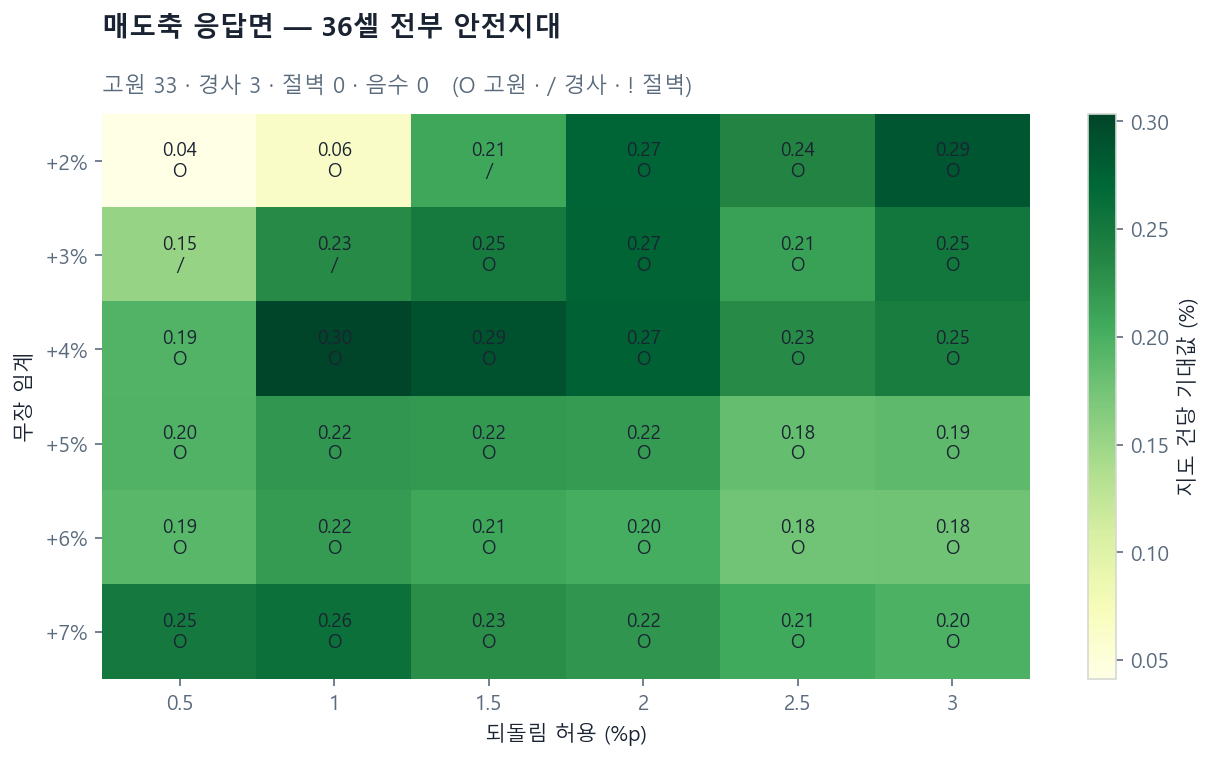
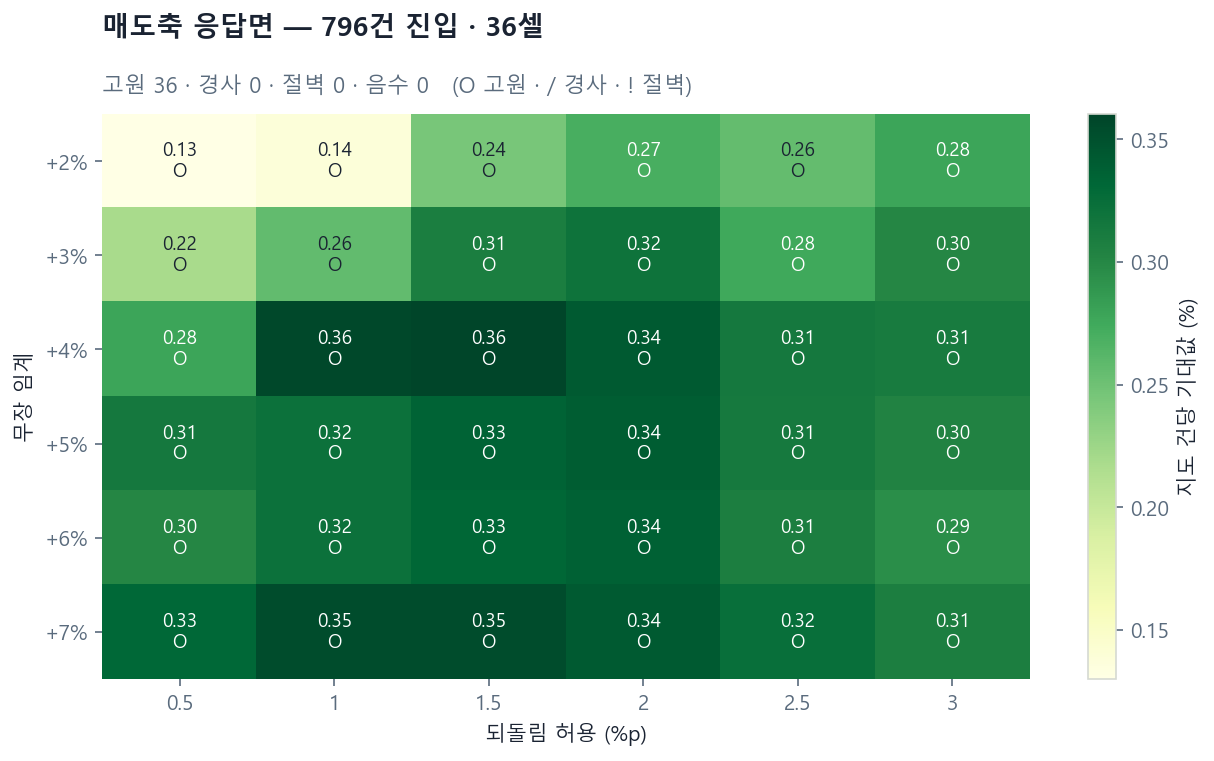
feat(S3 완료): 라벨 백필 477일 + 832일 지도 재산출 + 정본 세트 교정
백필 477/477 완료(실패 0 · 1시간 52분). design_v5 가 설계 구간 전체 832 거래일을
wide 36셀 격자로 덮는다. 지도 표본이 2.3배(진입 344 → 797건).

발견한 결함 2건:
1. 페이지 29 가 옛 세트(design_v4)를 보고 있어 백필을 끝내도 "결손 597일"이라고
   계속 말했다 → 정본을 design_v5 로 옮김. 결손 597 → 120(설계 1 + 홀드아웃 119)
2. 페이지 32 가 태그(_wide)를 고정하고 있어 넓어진 산출을 못 봤다
   → 태그 미지정 시 가장 최근 산출을 쓰도록 변경. 차트 생성기도 동일 규칙

832일 재산출 결과:
- 응답면: 경사 3셀이 전부 고원이 됐다(36/36). 경사는 표본 잡음이었다.
  고원 최고 이웃 유지율 64% → 86%. 지도 최고 셀도 4/1 → 4/1.5 로 이동
  (지도 순위는 표본에 따라 흔들린다 — 헌법 9항의 또 하나의 근거)
- 진입 절: 판정 대거 역전. 완화 후보 구성이 바뀌고 무효 9 → 6.
  새 최대 빈도 후보 902_회전율 (진입 1.49배 · 지도 건당 +0.0359%p)
- ★ 표본을 2.3배 늘려도 지도는 엔진과 정렬되지 않았다(3중 1만 개선).
  진입축 불일치는 표본 문제가 아니라 축 문제다 — 청산을 맞춰야 한다

테스트 38종 GREEN · 사이드카 1,002 문서 재생성 · 히트맵 글자 대비 교정

Claude-Session: https://claude.ai/code/session_01EDMgK8ek7QGtVQmyV1ANH6

diff --git a/docs/research/quant_scoring_pipeline/build_w6_charts.py b/docs/research/quant_scoring_pipeline/build_w6_charts.py
@@ -157,10 +157,14 @@ def chart_forest(led) -> None:
 # ---------------------------------------------------------------------------
 
 def chart_surface() -> None:
-    path = LABELS / "design_v5" / "_exit_response_surface_wide.json"
-    if not path.exists():
+    # 태그를 고정하지 않는다 — 라벨이 넓어지면 새 태그로 산출된다(_wide → _wide832).
+    #   가장 최근 산출을 그린다.
+    found = sorted((LABELS / "design_v5").glob("_exit_response_surface*.json"),
+                   key=lambda q: q.stat().st_mtime)
+    if not found:
         print("  (응답면 산출 없음 — 건너뜀)")
         return
+    path = found[-1]
     rep = json.loads(path.read_text(encoding="utf-8"))
     arms, gives = rep["arms"], rep["gives"]
     grid = np.array([[np.nan if v is None else v for v in row] for row in rep["matrix"]])
@@ -175,8 +179,10 @@ def chart_surface() -> None:
                 continue
             mark = {"고원": "O", "경사": "/", "절벽": "!", "음수": "-"}.get(
                 verdict.get((a, g), ""), "")
+            # 진한 칸에 어두운 글자를 얹으면 안 읽힌다 — 명도에 따라 뒤집는다.
+            share = (v - np.nanmin(grid)) / max(np.nanmax(grid) - np.nanmin(grid), 1e-9)
             ax.text(j, i, f"{v:.2f}\n{mark}", ha="center", va="center",
-                    fontsize=9, color=INK)
+                    fontsize=9, color="white" if share > 0.55 else INK)
     ax.set_xticks(range(len(gives))); ax.set_xticklabels([f"{g:g}" for g in gives])
     ax.set_yticks(range(len(arms))); ax.set_yticklabels([f"+{a:g}%" for a in arms])
     ax.set_xlabel("되돌림 허용 (%p)"); ax.set_ylabel("무장 임계")
@@ -184,7 +190,8 @@ def chart_surface() -> None:
     for side in ("top", "right", "bottom", "left"):
         ax.spines[side].set_visible(False)
     counts = rep["verdict_counts"]
-    ax.text(0, 1.13, "매도축 응답면 — 36셀 전부 안전지대", transform=ax.transAxes,
+    ax.text(0, 1.13, f"매도축 응답면 — {rep['entry_positions']:,}건 진입 · {len(rep['cells'])}셀",
+            transform=ax.transAxes,
             fontsize=13, fontweight="bold", color=INK, va="bottom")
     ax.text(0, 1.03,
             f"고원 {counts.get('고원', 0)} · 경사 {counts.get('경사', 0)} · "

diff --git a/ai_strategy_loop/dashboard/response_surface_api.py b/ai_strategy_loop/dashboard/response_surface_api.py
@@ -36,17 +36,22 @@ VERDICT_LABEL: Final = {
 
 
 def _find(out_name: str, tag: str) -> str | None:
-    path = os.path.join(_LABEL_ROOT, out_name, f"_exit_response_surface{tag}.json")
-    if os.path.exists(path):
-        return path
-    # 태그를 모르고 들어온 경우 — 하나뿐이면 그것을 쓴다. 여럿이면 고르지 않는다.
-    found = sorted(glob.glob(os.path.join(
-        _LABEL_ROOT, out_name, "_exit_response_surface*.json")))
-    return found[0] if len(found) == 1 else None
+    """태그를 주면 그것을, 안 주면 **가장 최근 산출**을 쓴다.
+
+    태그를 고정하면 안 되는 이유: 라벨이 넓어질 때마다 새 태그로 산출한다
+    (`_wide` 355일 → `_wide832` 832일). 화면이 옛 태그를 붙들고 있으면
+    백필을 끝내도 옛 표본의 그림을 계속 보여준다 — 페이지 29 에서 실제로 겪었다.
+    """
+    if tag:
+        path = os.path.join(_LABEL_ROOT, out_name, f"_exit_response_surface{tag}.json")
+        return path if os.path.exists(path) else None
+    found = glob.glob(os.path.join(
+        _LABEL_ROOT, out_name, "_exit_response_surface*.json"))
+    return max(found, key=os.path.getmtime) if found else None
 
 
 @response_surface_router.get("/loop/response-surface")
-def response_surface(out_name: str = "design_v5", tag: str = "_wide") -> dict[str, Any]:
+def response_surface(out_name: str = "design_v5", tag: str = "") -> dict[str, Any]:
     path = _find(out_name, tag)
     if path is None:
         return {"available": False, "out_name": out_name, "tag": tag,

diff --git a/tests/unit/test_w5_standing.py b/tests/unit/test_w5_standing.py
@@ -159,3 +159,32 @@ def test_standing_status_skips_revalidation_without_today(dirs):
                                 db_dir=str(db), label_root=str(labels.parent))
     assert status["revalidation"] is None       # 시계를 몰래 읽지 않는다
     assert status["actions_are_planned_only"] is True
+
+
+# ---------------------------------------------------------------------------
+# 정본 라벨 세트 (2026-08-09 백필 이후)
+# ---------------------------------------------------------------------------
+
+def test_default_out_name_points_at_the_full_coverage_set():
+    """★ 화면이 옛 세트를 보면 백필을 끝내도 "결손 597일"이라고 계속 말한다.
+
+    실측으로 그 상태를 확인하고 정본을 옮겼다: `design_v4` 는 355일·6셀 격자,
+    `design_v5` 는 wide 36셀로 설계 구간 전체(832일)를 덮는다.
+    """
+    assert st.DEFAULT_OUT_NAME == "design_v5"
+
+
+def test_api_default_delegates_to_the_controller(monkeypatch):
+    """기본값을 API 쪽에 문자열로 박으면 두 곳이 어긋난다."""
+    from ai_strategy_loop.dashboard import autoloop_api as api
+
+    seen = {}
+
+    def _spy(out_name, lane, **kw):
+        seen["out_name"] = out_name
+        return {}
+
+    monkeypatch.setattr(api, "_standing_candidates", lambda: [])
+    monkeypatch.setattr(st, "standing_status", _spy)
+    api.standing()
+    assert seen["out_name"] == st.DEFAULT_OUT_NAME

diff --git a/ai_strategy_loop/dashboard/autoloop_api.py b/ai_strategy_loop/dashboard/autoloop_api.py
@@ -206,7 +206,7 @@ def autonomy_budget(run_id: RunId = "") -> dict[str, Any]:
 
 
 @autoloop_router.get("/loop/standing")
-def standing(out_name: str = "design_v4", lane: str = "tick",
+def standing(out_name: str = "", lane: str = "tick",
              today: int = 0, max_age_days: int = 0) -> dict[str, Any]:
     """상설화 현황 (W5) — 백필 계획 + 후보 재검증 계획.
 
@@ -220,7 +220,9 @@ def standing(out_name: str = "design_v4", lane: str = "tick",
         return {"available": False, "reason": "unknown_lane", "lane": lane}
 
     records = _standing_candidates()
-    payload = st.standing_status(out_name, lane, records=records, today=today)
+    # 기본값을 여기서 문자열로 박지 않는다 — 정본 라벨 세트는 controller 가 안다.
+    payload = st.standing_status(out_name or st.DEFAULT_OUT_NAME, lane,
+                                 records=records, today=today)
     if today and max_age_days:
         payload["revalidation"] = st.revalidation_plan(
             records, today=today, max_age_days=max_age_days)

diff --git a/ai_strategy_loop/controller/standing.py b/ai_strategy_loop/controller/standing.py
@@ -159,8 +159,17 @@ def revalidation_plan(
     }
 
 
+#: 기본 라벨 세트 — **정본은 `design_v5`** 다.
+#:
+#: `design_v4` 는 355일·트레일링 6셀로 구워진 옛 세트다. `design_v5` 는 wide 36셀
+#: 격자로 설계 구간 전체(832일)를 덮는다(2026-08-09 백필 완료).
+#: 화면이 옛 세트를 보면 백필을 끝내도 "결손 597일"이라고 계속 말한다 — 실측으로
+#: 그 상태를 확인하고 정본을 옮겼다.
+DEFAULT_OUT_NAME: Final = "design_v5"
+
+
 def standing_status(
-    out_name: str = "design_v4",
+    out_name: str = DEFAULT_OUT_NAME,
     lane_name: str = "tick",
     *,
     records: list[dict[str, Any]] | None = None,
